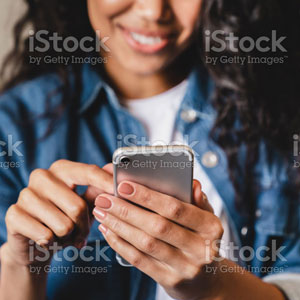
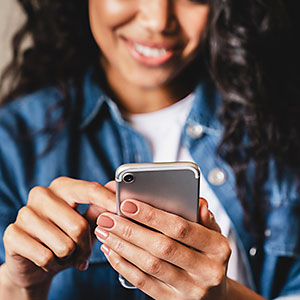
add final images and alter css so images are responsive and centered

diff --git a/dist/style.css b/dist/style.css
@@ -1,2 +1,2 @@
-@keyframes no-transform{to{opacity:1;transform:none}}@keyframes anchor-underline{0%,10%{left:0;right:100%}40%,60%{left:0;right:0}90%,to{left:100%;right:0}}.has-fade{visibility:hidden}@keyframes fade-in{0%{opacity:0;visibility:hidden}1%{opacity:0;visibility:visible}to{opacity:1;visibility:visible}}.fade-in{animation:fade-in .3s ease-in-out forwards}@keyframes fade-out{0%{opacity:1;visibility:visible}99%{opacity:0;visibility:visible}to{opacity:0;visibility:hidden}}.fade-out{animation:fade-out .3s ease-in-out forwards;display:none}a,abbr,acronym,address,applet,article,aside,audio,b,big,blockquote,body,canvas,caption,center,cite,code,dd,del,details,dfn,div,dl,dt,em,embed,fieldset,figcaption,figure,footer,form,h1,h2,h3,h4,h5,h6,header,hgroup,html,i,iframe,img,ins,kbd,label,legend,li,mark,menu,nav,object,ol,output,p,pre,q,ruby,s,samp,section,small,span,strike,strong,sub,summary,sup,table,tbody,td,tfoot,th,thead,time,tr,tt,u,ul,var,video{border:0;font-size:100%;font:inherit;margin:0;padding:0;vertical-align:baseline}article,aside,details,figcaption,figure,footer,header,hgroup,menu,nav,section{display:block}body{line-height:1.1}*{box-sizing:border-box;margin:0;padding:0}:root{--corpRed:#e43b2f;--corpRed80:rgba(228,59,47,.8);--lightGrey:#d4d4d4;--midGrey:#696969;--darkGrey:#404040;--black:#171717;--white:#fff;--white80:hsla(0,0%,100%,.8);--textGrey:#707070;--link:#e43b2f;--linkHover:#696969;--linkHoverBlue:#197de1;--font-text:"Lato",Helvetica,Arial,sans-serif;--font-heading:"Roboto",Helvetica,Arial,sans-serif}html{box-sizing:border-box;font-size:100%}*,:after,:before{box-sizing:inherit}body{background-color:var(--white);font-family:var(--font-text);height:100%;line-height:1.4;margin:0;padding:0}body.noscroll{overflow:hidden}.container-lg{margin:0 auto;max-width:87.5rem;width:80%}@media (max-width:87.4375em){.container-lg{position:relative;width:90%}}.container-blogText{margin:0 auto;max-width:48rem;width:80%}.container{margin:0 auto;max-width:75rem;width:80%}@media (max-width:63em){.container{padding:0 .625rem;position:relative;width:100%}}.row{padding:0 .625rem}ol,ul{list-style:none}blockquote,q{quotes:none}blockquote:after,blockquote:before,q:after,q:before{content:"";content:none}table{border-collapse:collapse;border-spacing:0}img{max-width:100%}a,a:hover,a:visited{text-decoration:none}.flex{display:flex}.flex-jc-sb{justify-content:space-between}.flex-jc-c{justify-content:center}.flex-ai-c{align-items:center}.fullWidth__blogs--wrapper{align-items:center;display:flex;flex-direction:row;justify-content:center;margin:0 auto;max-width:75rem;width:60%}@media (max-width:63em){.fullWidth__blogs--wrapper{flex-direction:row;position:relative;width:100%}}@media (max-width:39.9375em){.fullWidth__blogs--wrapper{flex-direction:column;position:relative;width:100%}}.fullWidth__rowReverse{flex-direction:row-reverse}.fullWidth__section{align-items:center;display:flex;flex-direction:row;flex-wrap:wrap;justify-content:flex-start;overflow:hidden;position:relative;width:100%}.fullWidth__section--reverse{flex-direction:row-reverse}@media (max-width:39.9375em){.fullWidth__section{display:block;height:100%;overflow:visible;position:relative}}.fullWidth__divider{background-color:var(--corpRed);height:6.25rem;margin-bottom:5rem;width:100%}@media (max-width:39.9375em){.fullWidth__divider{margin-bottom:2.5rem}}.section__divider{margin-bottom:5rem}.readMore{align-items:center;display:flex;justify-content:flex-start;margin:.9375rem 0 0}.contact__section{margin-bottom:5rem}.contact__section,.contact__section--content{align-items:center;display:flex;flex-direction:row;justify-content:center}.contact__section--content{width:100%}@media (max-width:39.9375em){.contact__section--content{flex-direction:column}}.contact__section--img{display:flex;justify-content:flex-end;padding-right:1.25rem;width:50%}@media (max-width:39.9375em){.contact__section--img{justify-content:center;margin-bottom:1.25rem;padding:0;width:100%}}.contact__section--text{align-items:flex-start;display:flex;flex-direction:column;justify-content:center;margin-left:1.25rem;width:50%}@media (max-width:39.9375em){.contact__section--text{align-items:center;margin-left:0;width:100%}}.contact__section--text p{color:var(--textGrey);font-family:var(--font-text);font-size:1.375rem;font-weight:700;margin-bottom:1.875rem;text-align:left;width:60%}@media (max-width:39.9375em){.contact__section--text p{text-align:center;width:80%}}.contact__us--img{border:.3125rem solid var(--midGrey);border-radius:50%}.button{display:inline-block}.btn,.button{cursor:pointer;text-align:center}.btn{border:0;border-radius:0;font-family:var(--font-heading);letter-spacing:.0625rem;text-transform:uppercase}.btn--lc{font-weight:300;text-transform:lowercase}.btn a{border-radius:0;cursor:pointer;padding:.5rem 1.25rem;text-transform:uppercase}.btn a:hover{text-decoration:none;transition:color .2s ease-in-out}.btn__navContact{margin-left:2.1875rem}@media (max-width:63em){.btn__navContact{margin-left:0}}.btn__hero{margin-top:2rem}.btn__headerNav{color:var(--darkGrey);font-family:var(--font-heading);font-size:1.0625rem;font-weight:500;letter-spacing:.0625rem;text-decoration:none;text-transform:uppercase}.btn__contact a,.btn__navContact a{background-color:var(--white);border:.0625rem solid var(--darkGrey);color:var(--darkGrey)}@media (max-width:63em){.btn__contact a,.btn__navContact a{margin-left:0}}.btn__contact a:hover,.btn__navContact a:hover{background-color:var(--corpRed);border:.0625rem solid var(--darkGrey);color:var(--white);text-decoration:none;transition:color .35s ease-in-out}.btn__recruiting a{background-color:var(--corpRed);border:.0625rem solid var(--white);color:var(--white)}.btn__recruiting a:hover{color:var(--corpRed)}.btn__about a,.btn__recruiting a:hover{background-color:var(--white);border:.0625rem solid var(--darkGrey)}.btn__about a{color:var(--darkGrey)}.btn__about a:hover{background-color:var(--darkGrey);border:.0625rem solid var(--darkGrey);color:var(--white);text-decoration:none;transition:color .35s ease-in-out}.btn__testimonial a{background-color:var(--white);border:.0625rem solid var(--darkGrey);color:var(--corpRed);padding:.625rem 1.25rem}.btn__testimonial a:hover{background-color:var(--corpRed);color:var(--white);transition:color .2s ease-in-out}h1,h2,h3,h4{font-family:var(--font-heading);margin-top:0}p{color:var(--textGrey);font-family:var(--font-text);font-size:1.0625rem;line-height:1.5;margin-bottom:1.25rem;padding-right:1.25rem}a,a:active,a:visited{text-decoration:none}a{color:var(--link);cursor:pointer}a:hover{color:var(--linkHover);text-decoration:underline;transition:all .3s ease-in-out}.hightlight-text{color:var(--corpRed)}.header{background-color:var(--white80);box-shadow:0 0 .625rem var(--black);position:absolute;width:100%;z-index:999}@media (max-width:63em){.header{background-color:var(--white)}}.header.open .header__menu>span:first-child{transform:rotate(45deg)}.header.open .header__menu>span:nth-child(2){opacity:0}.header.open .header__menu>span:last-child{transform:rotate(-45deg)}.header__logo{margin-bottom:1.25rem}.header .overlay{background-color:var(--white);bottom:0;left:0;opacity:0;position:fixed;right:0;top:3.75rem;z-index:400}.nav{flex-direction:row;justify-content:space-between;padding-top:.625rem;position:relative;z-index:400}.nav,.nav__list{align-items:center;display:flex}.nav__toggle{cursor:pointer;margin-right:.625rem;position:relative;width:2.25rem}.nav__toggle>span{background-color:var(--corpRed);display:block;height:.125rem;transform-origin:.1875rem .0625rem;transition:all .3s ease-in-out;width:1.625rem}.nav__toggle>span:not(:last-child){margin-bottom:.3125rem}.nav__item a{color:var(--darkGrey);cursor:pointer;font-weight:400;letter-spacing:.03125rem;margin-left:1rem;position:relative;text-transform:uppercase;transition:color .2s ease-out}@media (max-width:63em){.nav__item a{margin-left:0}}.nav__item a:after{border-radius:1rem;border-top:.0625rem solid var(--midGrey);bottom:-.5rem;content:"";left:0;position:absolute;right:100%;transition:right cubic-beizer(0,.5,0,1) .4s,border-color .4s ease-out}.nav__item a:hover{color:var(--midGrey);text-decoration:none}.nav__ a:hover:after{animation:anchor-underline 2s cubic-bezier(0,.5,0,1) infinite;border-color:var(--midGrey)}.nav__item--lc{font-weight:400;text-transform:none}.nav__item--btn{margin-left:2.1875rem}@media (max-width:63em){.nav__item--btn{margin-left:0}}.first-item a{margin-left:0}.nav-open{align-items:center;display:flex;flex-direction:column;justify-content:center;padding:0;position:fixed;text-align:center;top:6.25rem;width:90%;z-index:400}.nav__item,.nav__item--btn{padding-bottom:.625rem;padding-top:.625rem}.header__logo{padding:.625rem 0 0 .625rem}@media (max-width:63em){.hide-for-mobile{display:none}}@media (min-width:64em){.hide-for-desktop{display:none}}.frontPage__hero{background-image:url(../img/index-handsIn_1920x1080.jpg);background-position:top;background-repeat:no-repeat;background-size:cover;clear:both;height:100vh;left:49%;margin:0 0 5rem;overflow:hidden;position:relative;transform:translateX(-49%)}@media (max-width:63em){.frontPage__hero{background-color:#000;background-position:75% top}}.frontPage__hero--headline{align-items:flex-start;display:flex;flex-direction:column;left:20%;position:absolute;top:25%;width:100%;z-index:900}@media (max-width:63em){.frontPage__hero--headline{align-items:flex-start;left:10%;right:5%;width:80%}}@media (max-width:39.9375em){.frontPage__hero--headline{align-items:center;left:5%;text-align:center;top:25%;width:90%}}.frontPage__hero--headline h1,.frontPage__hero--headline h2{color:var(--white);font-weight:700;text-shadow:0 0 .4375rem var(--black)}.frontPage__hero--headline h1{font-size:2.5rem;margin-bottom:1.875rem;width:40%}@media (max-width:63em){.frontPage__hero--headline h1{font-size:2rem;width:100%}}.frontPage__hero--headline h2{font-size:1.75rem;line-height:1.3;margin-bottom:1.5625rem;width:30%}@media (max-width:63em){.frontPage__hero--headline h2{width:80%}}@media (max-width:39.9375em){.frontPage__hero--headline h2{font-size:1.5rem;line-height:1.3;width:100%}}.pageBanner{align-items:flex-end;background-position:top;background-repeat:no-repeat;background-size:cover;clear:both;display:flex;height:18.75rem;justify-content:flex-start;left:49%;margin:0 0 5rem;overflow:hidden;position:relative;transform:translateX(-49%)}.pageBanner--about{background-image:url(../img/hero_about_1920x500.jpg)}.pageBanner--testimonial{background-image:url(../img/hero_testimonial_1920x500.jpg)}.pageBanner--recruiting{background-image:url(../img/hero_recruiting_1920x500.jpg)}.pageBanner h1{color:var(--white);font-family:var(--font-heading);font-size:3.25rem;font-weight:900;margin-bottom:.625rem;padding-left:1.25rem;text-shadow:0 0 .3125rem var(--black);text-transform:uppercase}@media (max-width:39.9375em){.pageBanner h1{font-size:2.75rem}}.header__hero{margin-bottom:3.75rem;max-height:25rem;overflow:hidden;position:relative}@media (max-width:39.9375em){.header__hero{margin-bottom:2.5rem}}@media (max-width:63em){.header__hero--image{margin-top:5.625rem}}.header__hero--image img{height:auto;vertical-align:top;width:100%}.header__hero--content{bottom:1.25rem;left:6.25rem;position:absolute}@media (max-width:63em){.header__hero--content{bottom:.625rem;left:1.875rem}}@media (max-width:39.9375em){.header__hero--content{left:1.25rem}}.header__hero--content h1{border-left:.625rem solid var(--corpRed);color:var(--white);font-family:var(--font-heading);font-size:3.25rem;font-weight:900;line-height:1.2;padding-left:1.25rem;text-shadow:0 0 .3125rem var(--black);text-transform:uppercase}@media (max-width:63em){.header__hero--content h1{border-left:.3125rem solid var(--corpRed);font-size:2.625rem;padding-left:.625rem}}@media (max-width:39.9375em){.header__hero--content h1{border-left:.1875rem solid var(--corpRed);font-size:1.75rem}}.full__width--about{background-color:var(--corpRed)}.full__width--about,.full__width--recruiting{margin-bottom:6.25rem}.full__width--connect{background-image:url(../img/lets_connect_bkgd_1920x300.jpg);background-position:50%;background-repeat:no-repeat;margin-bottom:6.25rem;overflow:hidden;width:cover}.frontpg__about,.full__width--connect{align-items:center;display:flex;height:18.75rem;justify-content:center}.frontpg__about{flex-direction:row;flex-wrap:wrap;padding:0;position:relative;width:100%}@media (max-width:63em){.frontpg__about{height:auto}}@media (max-width:39.9375em){.frontpg__about{flex-direction:column;height:auto}}.frontpg__about--img,.frontpg__about--text{width:50%}@media (max-width:39.9375em){.frontpg__about--img,.frontpg__about--text{margin-bottom:1.25rem;overflow:hidden;width:100%}}.frontpg__about--img{flex:1;height:18.75rem;overflow:hidden}@media (max-width:63em){.frontpg__about--img{height:auto}}.frontpg__about--img img{display:block;height:100%;width:100%}.frontpg__about--text{align-items:flex-start;color:var(--white);display:flex;flex-direction:column;font-weight:500;justify-content:center;padding:0 1.25rem;width:50%}@media (max-width:39.9375em){.frontpg__about--text{padding:0 .9375rem;width:100%}}.frontpg__about--text h2{font-size:2.25rem;margin-bottom:.5rem}@media (max-width:63em){.frontpg__about--text h2{font-size:1.625rem}}.frontpg__about--text p{color:var(--white);font-size:1.25rem;line-height:1;margin-bottom:1.875rem}@media (max-width:39.9375em){.frontpg__about--text p{font-size:1.125rem}}.frontpg__recruiting{align-items:center;display:flex;flex-direction:row-reverse;flex-wrap:wrap;justify-content:center;padding:0;position:relative;width:100%}@media (max-width:63em){.frontpg__recruiting{height:auto}}@media (max-width:39.9375em){.frontpg__recruiting{flex-direction:column;height:auto}}.frontpg__recruiting--img{box-shadow:0 0 .625rem var(--black);flex:1;overflow:hidden}@media (max-width:63em){.frontpg__recruiting--img{height:auto}}@media (max-width:39.9375em){.frontpg__recruiting--img{margin-bottom:1.25rem;order:1}}.frontpg__recruiting--img img{display:block;overflow:hidden;width:100%}.frontpg__recruiting--text{align-items:flex-start;display:flex;flex-direction:column;font-weight:500;justify-content:center;padding:0 1.25rem 0 3.25rem;width:44%}@media (max-width:39.9375em){.frontpg__recruiting--text{order:2;padding:0 1.25rem;width:100%}}.frontpg__recruiting--text h2{color:var(--corpRed);font-size:2.25rem;margin-bottom:.5rem}@media (max-width:63em){.frontpg__recruiting--text h2{font-size:1.625rem}}.frontpg__recruiting--text p{color:var(--textGrey);font-size:1.125rem;line-height:1.3;margin-bottom:1.875rem;width:80%}@media (max-width:39.9375em){.frontpg__recruiting--text p{font-size:1.125rem}}.frontpg__testimonials{align-items:flex-end;display:flex;justify-content:flex-start;padding:0 0 1.25rem 1.25rem}.frontpg__testimonials--section{margin-bottom:2.8125rem}.frontpg__testimonials--testimonial{align-items:center;display:flex;flex-direction:row;gap:2.5rem;justify-content:center;padding:1.25rem}@media (max-width:63em){.frontpg__testimonials--testimonialSingle{padding:0 .625rem 1.875rem}}.frontpg__testimonials--testimonialSingle p{color:var(--textGrey);font-family:var(--font-text);font-size:1.125rem;font-weight:500;line-height:1.3}@media (max-width:39.9375em){.frontpg__testimonials--testimonial{flex-wrap:wrap}}.page__connect{align-items:center;background-color:var(--corpRed80);border:.625rem solid var(--white);display:flex;flex-direction:column;height:12.5rem;justify-content:center}.page__connect h2{color:var(--white);font-size:2.25rem;font-weight:500;text-transform:uppercase}.frontPage__testimonials{display:flex;flex-direction:column;gap:1.25rem;height:auto;width:100%}.frontPage__testimonials--section{display:flex;flex-direction:row;gap:2.5rem}@media (max-width:39.9375em){.frontPage__testimonials--section{flex-direction:column}}.frontPage__testimonials--testimonial{border:.0625rem solid var(--midGrey);border-top:.5rem solid var(--corpRed);padding:1.25rem;width:100%}.frontPage__testimonials--testimonial:hover{border-top:.625rem solid var(--corpRed);box-shadow:0 0 1.25rem var(--corpRed);transition:all .3s ease-in-out}.frontPage__wrapper{max-height:18.75rem;padding:0;position:relative}.frontPage__wrapper,.frontPage__wrapper--image{margin-bottom:2.5rem;overflow:hidden;width:100%}.frontPage__wrapper--image{background-image:url(../img/index_testimonials_1920x350.jpg);background-position:top;background-repeat:no-repeat;background-size:cover;height:15.625rem}.frontPage__wrapper--text{border-left:.5625rem solid var(--corpRed);bottom:4rem;left:3.75rem;padding-left:1.25rem;position:absolute}@media (max-width:39.9375em){.frontPage__wrapper--text{left:1.25rem}}.frontPage__wrapper--text h3{color:var(--white);font-family:var(--font-heading);font-size:3rem;font-weight:700;letter-spacing:.125rem;text-shadow:.1875rem .1875rem .3125rem var(--black);text-transform:uppercase}@media (max-width:63em){.frontPage__wrapper--text h3{font-size:2.5rem;line-height:1.2}}@media (max-width:39.9375em){.frontPage__wrapper--text h3{font-size:2rem;line-height:1.2;text-shadow:0 0 .4375rem var(--black)}}.index__input{padding:.625rem}input::placeholder{color:var(--midGrey);font-family:var(--font-heading);font-size:1.625rem;font-weight:500;padding:.625rem}.testimonial{border:.0625rem solid var(--midGrey);border-top:.625rem solid var(--corpRed);padding:1.25rem}.testimonial__logo{margin-bottom:.9375rem}.testimonial:hover{border:0;border-top:.625rem solid var(--corpRed);box-shadow:0 0 1.25rem var(--corpRed);transition:all .3s ease-in-out}.testimonial__blog{border-left:.125rem solid var(--corpRed);padding-left:1.25rem}.testimonial__blog--logo,.testimonial__blog--single{margin-bottom:2.5rem}.testimonial__blog--single h2{color:var(--textGrey);font-family:var(--font-heading);font-size:2.5rem;font-weight:500}.testimonial__blog--intro{color:var(--darkGrey);font-size:1.25rem;line-height:1.4}.testimonial__blog--date{color:var(--textGrey);font-family:var(--font-text);font-size:.875rem;margin-bottom:1.25rem}.testimonial__intro{margin-bottom:5rem}.testimonial__intro--bold{margin-bottom:3.75rem}.testimonial__intro--bold p{color:var(--darkGrey);font-size:1.25rem;line-height:1.4}.testimonials__all{align-items:center;display:flex;justify-content:flex-end}@media (max-width:63em){.testimonials__all{padding-right:1.25rem}}.testimonials__all p a{color:var(--corpRed);cursor:pointer;font-family:var(--font-text);font-size:.875rem;text-transform:uppercase}.testimonials__all p a:hover{color:var(--linkHover);text-decoration:underline}.testimonials__section--column{align-items:center;display:flex;flex-direction:column;justify-content:center;margin-bottom:5rem}.testimonials__section--single{margin-bottom:2.5rem;padding:0 1.875rem}.recruiting__intro{margin-bottom:5rem}.recruiting__intro--bold p{color:var(--darkGrey);font-size:1.25rem;line-height:1.4}.recruiting__image{margin-bottom:5rem}.hiringProcess{margin-bottom:3.75rem}.hiringProcess h2{color:var(--darkGrey);font-size:2.5rem;margin-bottom:.5rem}.hiringProcess__list{margin-left:2.5rem}.hiringProcess__list ol{line-height:1.5;list-style:decimal;margin-bottom:2.5rem}.hiringProcess__list ol li{margin-bottom:.9375rem;padding-left:.625rem}.hiringProcess__list--strong{color:var(--darkGrey);font-weight:700}.about__intro{align-items:flex-start;display:flex;flex-direction:row;gap:1.25rem;justify-content:center;margin-bottom:5rem}@media (max-width:39.9375em){.about__intro{flex-direction:column}}.about__intro--img,.about__intro--text{flex:1 0 45%}.about__intro--img{padding-right:.625rem}.about__intro--bold{color:var(--darkGrey);font-size:1.25rem;line-height:1.4}.about__intro--text{padding-left:.625rem;padding-right:.625rem}.about__bio{align-items:flex-start;display:flex;flex-direction:row;justify-content:center;margin-bottom:1.25rem}@media (max-width:39.9375em){.about__bio{flex-direction:column;margin-bottom:3.75rem}}.about__bio--images,.about__bio--text{display:flex;flex:1 0 40%;flex-direction:column;justify-content:center;padding-right:1.25rem}@media (max-width:39.9375em){.about__bio--images,.about__bio--text{padding:0}.about__bio--images{order:2}}.about__bio--text h2,.about__bio--text h3{color:var(--corpRed);font-family:var(--font-heading)}.about__bio--text h2{font-size:2rem;font-weight:700}.about__bio--text h3{font-size:1.875rem;font-weight:500;margin-bottom:1.5625rem}.bioImage{margin-bottom:1.25rem;overflow:hidden;width:100%}.bio__clientImages{align-items:center;display:flex;flex-direction:row;gap:.625rem;justify-content:space-around;overflow:hidden;padding:0;width:100%}@media (max-width:39.9375em){.bio__clientImages{gap:.625rem;width:100%}}.clientImage{overflow:hidden}.footer{background-color:var(--lightGrey);flex-direction:column;height:auto;padding:1.875rem 0;position:relative}.footer,.footer__identity,.footer__menu{align-items:center;display:flex;justify-content:center}.footer__identity,.footer__menu{margin-bottom:1.875rem}.footer__nav{align-items:center;display:flex;flex-direction:row;justify-content:center;width:100%}@media (max-width:39.9375em){.footer__nav{flex-direction:column}}.footer__nav--item{margin:0 0 0 1.5rem}.footer__nav--item a{color:var(--link);cursor:pointer;font-family:var(--font-heading);font-size:1rem;font-weight:700;letter-spacing:.0625rem}.footer__nav--item a:hover{color:var(--linkHover)}@media (max-width:39.9375em){.footer__nav--item{margin:0 0 1.25rem}}.footer__info{align-items:center;display:flex;flex-direction:row;justify-content:center}@media (max-width:39.9375em){.footer__info{flex-direction:column}}.footer__info--privacy{font-size:.875rem;margin-right:1.25rem}.footer__info--copyright{font-size:.875rem;margin-left:1.25rem}@media (max-width:39.9375em){.footer__info--copyright,.footer__info--privacy,.footer__info--social{margin:0 0 1.25rem}}
+@keyframes no-transform{to{opacity:1;transform:none}}@keyframes anchor-underline{0%,10%{left:0;right:100%}40%,60%{left:0;right:0}90%,to{left:100%;right:0}}.has-fade{visibility:hidden}@keyframes fade-in{0%{opacity:0;visibility:hidden}1%{opacity:0;visibility:visible}to{opacity:1;visibility:visible}}.fade-in{animation:fade-in .3s ease-in-out forwards}@keyframes fade-out{0%{opacity:1;visibility:visible}99%{opacity:0;visibility:visible}to{opacity:0;visibility:hidden}}.fade-out{animation:fade-out .3s ease-in-out forwards;display:none}a,abbr,acronym,address,applet,article,aside,audio,b,big,blockquote,body,canvas,caption,center,cite,code,dd,del,details,dfn,div,dl,dt,em,embed,fieldset,figcaption,figure,footer,form,h1,h2,h3,h4,h5,h6,header,hgroup,html,i,iframe,img,ins,kbd,label,legend,li,mark,menu,nav,object,ol,output,p,pre,q,ruby,s,samp,section,small,span,strike,strong,sub,summary,sup,table,tbody,td,tfoot,th,thead,time,tr,tt,u,ul,var,video{border:0;font-size:100%;font:inherit;margin:0;padding:0;vertical-align:baseline}article,aside,details,figcaption,figure,footer,header,hgroup,menu,nav,section{display:block}body{line-height:1.1}*{box-sizing:border-box;margin:0;padding:0}:root{--corpRed:#e43b2f;--corpRed80:rgba(228,59,47,.8);--lightGrey:#d4d4d4;--midGrey:#696969;--darkGrey:#404040;--black:#171717;--white:#fff;--white80:hsla(0,0%,100%,.8);--textGrey:#707070;--link:#e43b2f;--linkHover:#696969;--linkHoverBlue:#197de1;--font-text:"Lato",Helvetica,Arial,sans-serif;--font-heading:"Roboto",Helvetica,Arial,sans-serif}html{box-sizing:border-box;font-size:100%}*,:after,:before{box-sizing:inherit}body{background-color:var(--white);font-family:var(--font-text);height:100%;line-height:1.4;margin:0;padding:0}body.noscroll{overflow:hidden}.container-lg{margin:0 auto;max-width:87.5rem;width:80%}@media (max-width:87.4375em){.container-lg{position:relative;width:90%}}.container-blogText{margin:0 auto;max-width:48rem;width:80%}.container{margin:0 auto;max-width:75rem;width:80%}@media (max-width:63em){.container{padding:0 .625rem;position:relative;width:100%}}.row{padding:0 .625rem}ol,ul{list-style:none}blockquote,q{quotes:none}blockquote:after,blockquote:before,q:after,q:before{content:"";content:none}table{border-collapse:collapse;border-spacing:0}img{max-width:100%}a,a:hover,a:visited{text-decoration:none}.flex{display:flex}.flex-jc-sb{justify-content:space-between}.flex-jc-c{justify-content:center}.flex-ai-c{align-items:center}.fullWidth__blogs--wrapper{align-items:center;display:flex;flex-direction:row;justify-content:center;margin:0 auto;max-width:75rem;width:60%}@media (max-width:63em){.fullWidth__blogs--wrapper{flex-direction:row;position:relative;width:100%}}@media (max-width:39.9375em){.fullWidth__blogs--wrapper{flex-direction:column;position:relative;width:100%}}.fullWidth__rowReverse{flex-direction:row-reverse}.fullWidth__section{align-items:center;display:flex;flex-direction:row;flex-wrap:wrap;justify-content:flex-start;overflow:hidden;position:relative;width:100%}.fullWidth__section--reverse{flex-direction:row-reverse}@media (max-width:39.9375em){.fullWidth__section{display:block;height:100%;overflow:visible;position:relative}}.fullWidth__divider{background-color:var(--corpRed);height:6.25rem;margin-bottom:5rem;width:100%}@media (max-width:39.9375em){.fullWidth__divider{margin-bottom:2.5rem}}.section__divider{margin-bottom:5rem}.readMore{align-items:center;display:flex;justify-content:flex-start;margin:.9375rem 0 0}.contact__section{margin-bottom:5rem}.contact__section,.contact__section--content{align-items:center;display:flex;flex-direction:row;justify-content:center}.contact__section--content{width:100%}@media (max-width:39.9375em){.contact__section--content{flex-direction:column}}.contact__section--img{display:flex;justify-content:flex-end;padding-right:1.25rem;width:50%}@media (max-width:39.9375em){.contact__section--img{justify-content:center;margin-bottom:1.25rem;padding:0;width:100%}}.contact__section--text{align-items:flex-start;display:flex;flex-direction:column;justify-content:center;margin-left:1.25rem;width:50%}@media (max-width:39.9375em){.contact__section--text{align-items:center;margin-left:0;width:100%}}.contact__section--text p{color:var(--textGrey);font-family:var(--font-text);font-size:1.375rem;font-weight:700;margin-bottom:1.875rem;text-align:left;width:60%}@media (max-width:39.9375em){.contact__section--text p{text-align:center;width:80%}}.contact__us--img{border:.3125rem solid var(--midGrey);border-radius:50%}.button{display:inline-block}.btn,.button{cursor:pointer;text-align:center}.btn{border:0;border-radius:0;font-family:var(--font-heading);letter-spacing:.0625rem;text-transform:uppercase}.btn--lc{font-weight:300;text-transform:lowercase}.btn a{border-radius:0;cursor:pointer;padding:.5rem 1.25rem;text-transform:uppercase}.btn a:hover{text-decoration:none;transition:color .2s ease-in-out}.btn__navContact{margin-left:2.1875rem}@media (max-width:63em){.btn__navContact{margin-left:0}}.btn__hero{margin-top:2rem}.btn__headerNav{color:var(--darkGrey);font-family:var(--font-heading);font-size:1.0625rem;font-weight:500;letter-spacing:.0625rem;text-decoration:none;text-transform:uppercase}.btn__contact a,.btn__navContact a{background-color:var(--white);border:.0625rem solid var(--darkGrey);color:var(--darkGrey)}@media (max-width:63em){.btn__contact a,.btn__navContact a{margin-left:0}}.btn__contact a:hover,.btn__navContact a:hover{background-color:var(--corpRed);border:.0625rem solid var(--darkGrey);color:var(--white);text-decoration:none;transition:color .35s ease-in-out}.btn__recruiting a{background-color:var(--corpRed);border:.0625rem solid var(--white);color:var(--white)}.btn__recruiting a:hover{color:var(--corpRed)}.btn__about a,.btn__recruiting a:hover{background-color:var(--white);border:.0625rem solid var(--darkGrey)}.btn__about a{color:var(--darkGrey)}.btn__about a:hover{background-color:var(--darkGrey);border:.0625rem solid var(--darkGrey);color:var(--white);text-decoration:none;transition:color .35s ease-in-out}.btn__testimonial a{background-color:var(--white);border:.0625rem solid var(--darkGrey);color:var(--corpRed);padding:.625rem 1.25rem}.btn__testimonial a:hover{background-color:var(--corpRed);color:var(--white);transition:color .2s ease-in-out}h1,h2,h3,h4{font-family:var(--font-heading);line-height:1.1;margin-top:0}p{color:var(--textGrey);font-family:var(--font-text);font-size:1.0625rem;line-height:1.5;margin-bottom:1.25rem;padding-right:1.25rem}a,a:active,a:visited{text-decoration:none}a{color:var(--link);cursor:pointer}a:hover{color:var(--linkHover);text-decoration:underline;transition:all .3s ease-in-out}.hightlight-text{color:var(--corpRed)}.header{background-color:var(--white80);box-shadow:0 0 .625rem var(--black);position:absolute;width:100%;z-index:999}@media (max-width:63em){.header{background-color:var(--white)}}.header.open .header__menu>span:first-child{transform:rotate(45deg)}.header.open .header__menu>span:nth-child(2){opacity:0}.header.open .header__menu>span:last-child{transform:rotate(-45deg)}.header__logo{margin-bottom:1.25rem}.header .overlay{background-color:var(--white);bottom:0;left:0;opacity:0;position:fixed;right:0;top:3.75rem;z-index:400}.nav{flex-direction:row;justify-content:space-between;padding-top:.625rem;position:relative;z-index:400}.nav,.nav__list{align-items:center;display:flex}.nav__toggle{cursor:pointer;margin-right:.625rem;position:relative;width:2.25rem}.nav__toggle>span{background-color:var(--corpRed);display:block;height:.125rem;transform-origin:.1875rem .0625rem;transition:all .3s ease-in-out;width:1.625rem}.nav__toggle>span:not(:last-child){margin-bottom:.3125rem}.nav__item a{color:var(--darkGrey);cursor:pointer;font-weight:400;letter-spacing:.03125rem;margin-left:1rem;position:relative;text-transform:uppercase;transition:color .2s ease-out}@media (max-width:63em){.nav__item a{margin-left:0}}.nav__item a:after{border-radius:1rem;border-top:.0625rem solid var(--midGrey);bottom:-.5rem;content:"";left:0;position:absolute;right:100%;transition:right cubic-beizer(0,.5,0,1) .4s,border-color .4s ease-out}.nav__item a:hover{color:var(--midGrey);text-decoration:none}.nav__ a:hover:after{animation:anchor-underline 2s cubic-bezier(0,.5,0,1) infinite;border-color:var(--midGrey)}.nav__item--lc{font-weight:400;text-transform:none}.nav__item--btn{margin-left:2.1875rem}@media (max-width:63em){.nav__item--btn{margin-left:0}}.first-item a{margin-left:0}.nav-open{align-items:center;display:flex;flex-direction:column;justify-content:center;padding:0;position:fixed;text-align:center;top:6.25rem;width:90%;z-index:400}.nav__item,.nav__item--btn{padding-bottom:.625rem;padding-top:.625rem}.header__logo{padding:.625rem 0 0 .625rem}@media (max-width:63em){.hide-for-mobile{display:none}}@media (min-width:64em){.hide-for-desktop{display:none}}.frontPage__hero{background-image:url(../img/index-handsIn_1920x1080.jpg);background-position:top;background-repeat:no-repeat;background-size:cover;clear:both;height:100vh;left:49%;margin:0 0 5rem;overflow:hidden;position:relative;transform:translateX(-49%)}@media (max-width:63em){.frontPage__hero{background-color:#000;background-position:75% top}}.frontPage__hero--headline{align-items:flex-start;display:flex;flex-direction:column;left:20%;position:absolute;top:25%;width:100%;z-index:900}@media (max-width:63em){.frontPage__hero--headline{align-items:flex-start;left:10%;right:5%;width:80%}}@media (max-width:39.9375em){.frontPage__hero--headline{align-items:center;left:5%;text-align:center;top:25%;width:90%}}.frontPage__hero--headline h1,.frontPage__hero--headline h2{color:var(--white);font-weight:700;text-shadow:0 0 .4375rem var(--black)}.frontPage__hero--headline h1{font-size:2.5rem;margin-bottom:1.875rem;width:40%}@media (max-width:63em){.frontPage__hero--headline h1{font-size:2rem;width:100%}}.frontPage__hero--headline h2{font-size:1.75rem;line-height:1.3;margin-bottom:1.5625rem;width:30%}@media (max-width:63em){.frontPage__hero--headline h2{width:80%}}@media (max-width:39.9375em){.frontPage__hero--headline h2{font-size:1.5rem;line-height:1.3;width:100%}}.pageBanner{align-items:flex-end;background-position:top;background-repeat:no-repeat;background-size:cover;clear:both;display:flex;height:18.75rem;justify-content:flex-start;left:49%;margin:0 0 5rem;overflow:hidden;position:relative;transform:translateX(-49%)}.pageBanner--about{background-image:url(../img/hero_about_1920x500.jpg)}.pageBanner--testimonial{background-image:url(../img/hero_testimonial_1920x500.jpg)}.pageBanner--recruiting{background-image:url(../img/hero_recruiting_1920x500.jpg)}.pageBanner h1{color:var(--white);font-family:var(--font-heading);font-size:3.25rem;font-weight:900;margin-bottom:.625rem;padding-left:1.25rem;text-shadow:0 0 .3125rem var(--black);text-transform:uppercase}@media (max-width:39.9375em){.pageBanner h1{font-size:2.75rem}}.header__hero{margin-bottom:3.75rem;max-height:25rem;overflow:hidden;position:relative}@media (max-width:39.9375em){.header__hero{margin-bottom:2.5rem}}@media (max-width:63em){.header__hero--image{margin-top:5.625rem}}.header__hero--image img{height:auto;vertical-align:top;width:100%}.header__hero--content{bottom:1.25rem;left:6.25rem;position:absolute}@media (max-width:63em){.header__hero--content{bottom:.625rem;left:1.875rem}}@media (max-width:39.9375em){.header__hero--content{left:1.25rem}}.header__hero--content h1{border-left:.625rem solid var(--corpRed);color:var(--white);font-family:var(--font-heading);font-size:3.25rem;font-weight:900;line-height:1.2;padding-left:1.25rem;text-shadow:0 0 .3125rem var(--black);text-transform:uppercase}@media (max-width:63em){.header__hero--content h1{border-left:.3125rem solid var(--corpRed);font-size:2.625rem;padding-left:.625rem}}@media (max-width:39.9375em){.header__hero--content h1{border-left:.1875rem solid var(--corpRed);font-size:1.75rem}}.full__width--about{background-color:var(--corpRed)}.full__width--about,.full__width--recruiting{margin-bottom:6.25rem}.full__width--connect{background-image:url(../img/lets_connect_bkgd_1920x400.jpg);background-position:50%;background-repeat:no-repeat;margin-bottom:6.25rem;overflow:hidden;width:cover}.frontpg__about,.full__width--connect{align-items:center;display:flex;height:18.75rem;justify-content:center}.frontpg__about{flex-direction:row;flex-wrap:wrap;padding:0;position:relative;width:100%}@media (max-width:63em){.frontpg__about{height:auto}}@media (max-width:39.9375em){.frontpg__about{flex-direction:column;height:auto}}.frontpg__about--img,.frontpg__about--text{width:50%}@media (max-width:39.9375em){.frontpg__about--img,.frontpg__about--text{margin-bottom:1.25rem;overflow:hidden;width:100%}}.frontpg__about--img{flex:1;height:18.75rem;overflow:hidden}@media (max-width:63em){.frontpg__about--img{height:auto}}.frontpg__about--img img{display:block;height:100%;width:100%}.frontpg__about--text{align-items:flex-start;color:var(--white);display:flex;flex-direction:column;font-weight:500;justify-content:center;padding:0 1.25rem;width:50%}@media (max-width:39.9375em){.frontpg__about--text{padding:0 .9375rem;width:100%}}.frontpg__about--text h2{font-size:2.25rem;margin-bottom:.5rem}@media (max-width:63em){.frontpg__about--text h2{font-size:1.625rem}}.frontpg__about--text p{color:var(--white);font-size:1.25rem;line-height:1;margin-bottom:1.875rem}@media (max-width:39.9375em){.frontpg__about--text p{font-size:1.125rem}}.frontpg__recruiting{align-items:center;display:flex;flex-direction:row-reverse;flex-wrap:wrap;justify-content:center;padding:0;position:relative;width:100%}@media (max-width:63em){.frontpg__recruiting{height:auto}}@media (max-width:39.9375em){.frontpg__recruiting{flex-direction:column;height:auto}}.frontpg__recruiting--img{box-shadow:0 0 .625rem var(--black);flex:1;overflow:hidden}@media (max-width:63em){.frontpg__recruiting--img{height:auto}}@media (max-width:39.9375em){.frontpg__recruiting--img{margin-bottom:1.25rem;order:1}}.frontpg__recruiting--img img{display:block;overflow:hidden;width:100%}.frontpg__recruiting--text{align-items:flex-start;display:flex;flex-direction:column;font-weight:500;justify-content:center;padding:0 1.25rem 0 3.25rem;width:44%}@media (max-width:39.9375em){.frontpg__recruiting--text{order:2;padding:0 1.25rem;width:100%}}.frontpg__recruiting--text h2{color:var(--corpRed);font-size:2.25rem;margin-bottom:.5rem}@media (max-width:63em){.frontpg__recruiting--text h2{font-size:1.625rem}}.frontpg__recruiting--text p{color:var(--textGrey);font-size:1.125rem;line-height:1.3;margin-bottom:1.875rem;width:80%}@media (max-width:39.9375em){.frontpg__recruiting--text p{font-size:1.125rem}}.frontpg__testimonials{align-items:flex-end;display:flex;justify-content:flex-start;padding:0 0 1.25rem 1.25rem}.frontpg__testimonials--section{margin-bottom:2.8125rem}.frontpg__testimonials--testimonial{align-items:center;display:flex;flex-direction:row;gap:2.5rem;justify-content:center;padding:1.25rem}@media (max-width:63em){.frontpg__testimonials--testimonialSingle{padding:0 .625rem 1.875rem}}.frontpg__testimonials--testimonialSingle p{color:var(--textGrey);font-family:var(--font-text);font-size:1.125rem;font-weight:500;line-height:1.3}@media (max-width:39.9375em){.frontpg__testimonials--testimonial{flex-wrap:wrap}}.page__connect{align-items:center;background-color:var(--corpRed80);border:.625rem solid var(--white);display:flex;flex-direction:column;height:12.5rem;justify-content:center}.page__connect h2{color:var(--white);font-size:2.25rem;font-weight:500;text-transform:uppercase}.frontPage__testimonials{display:flex;flex-direction:column;gap:1.25rem;height:auto;width:100%}.frontPage__testimonials--section{display:flex;flex-direction:row;gap:2.5rem}@media (max-width:39.9375em){.frontPage__testimonials--section{flex-direction:column}}.frontPage__testimonials--testimonial{border:.0625rem solid var(--midGrey);border-top:.5rem solid var(--corpRed);padding:1.25rem;width:100%}.frontPage__testimonials--testimonial:hover{border-top:.625rem solid var(--corpRed);box-shadow:0 0 1.25rem var(--corpRed);transition:all .3s ease-in-out}.frontPage__wrapper{max-height:18.75rem;padding:0;position:relative}.frontPage__wrapper,.frontPage__wrapper--image{margin-bottom:2.5rem;overflow:hidden;width:100%}.frontPage__wrapper--image{background-image:url(../img/index_testimonials_1920x350.jpg);background-position:top;background-repeat:no-repeat;background-size:cover;height:15.625rem}.frontPage__wrapper--text{border-left:.5625rem solid var(--corpRed);bottom:4rem;left:3.75rem;padding-left:1.25rem;position:absolute}@media (max-width:39.9375em){.frontPage__wrapper--text{left:1.25rem}}.frontPage__wrapper--text h3{color:var(--white);font-family:var(--font-heading);font-size:3rem;font-weight:700;letter-spacing:.125rem;text-shadow:.1875rem .1875rem .3125rem var(--black);text-transform:uppercase}@media (max-width:63em){.frontPage__wrapper--text h3{font-size:2.5rem;line-height:1.2}}@media (max-width:39.9375em){.frontPage__wrapper--text h3{font-size:2rem;line-height:1.2;text-shadow:0 0 .4375rem var(--black)}}.index__input{padding:.625rem}input::placeholder{color:var(--midGrey);font-family:var(--font-heading);font-size:1.625rem;font-weight:500;padding:.625rem}.testimonial{border:.0625rem solid var(--midGrey);border-top:.625rem solid var(--corpRed);padding:1.25rem}.testimonial__logo{margin-bottom:.9375rem}.testimonial:hover{border:0;border-top:.625rem solid var(--corpRed);box-shadow:0 0 1.25rem var(--corpRed);transition:all .3s ease-in-out}.testimonial__blog{border-left:.125rem solid var(--corpRed);padding-left:1.25rem}.testimonial__blog--logo,.testimonial__blog--single{margin-bottom:2.5rem}.testimonial__blog--single h2{color:var(--textGrey);font-family:var(--font-heading);font-size:2.5rem;font-weight:500}.testimonial__blog--intro{color:var(--darkGrey);font-size:1.25rem;line-height:1.4}.testimonial__blog--date{color:var(--textGrey);font-family:var(--font-text);font-size:.875rem;margin-bottom:1.25rem}.testimonial__intro{margin-bottom:5rem}.testimonial__intro--bold{margin-bottom:3.75rem}.testimonial__intro--bold p{color:var(--darkGrey);font-size:1.25rem;line-height:1.4}.testimonials__all{align-items:center;display:flex;justify-content:flex-end}@media (max-width:63em){.testimonials__all{padding-right:1.25rem}}.testimonials__all p a{color:var(--corpRed);cursor:pointer;font-family:var(--font-text);font-size:.875rem;text-transform:uppercase}.testimonials__all p a:hover{color:var(--linkHover);text-decoration:underline}.testimonials__section--column{align-items:center;display:flex;flex-direction:column;justify-content:center;margin-bottom:5rem}.testimonials__section--single{margin-bottom:2.5rem;padding:0 1.875rem}.recruiting__intro{margin-bottom:5rem}.recruiting__intro--bold p{color:var(--darkGrey);font-size:1.25rem;line-height:1.4}.recruiting__image{margin-bottom:3.75rem;max-height:17.1875rem;overflow:hidden;vertical-align:top}@media (max-width:39.9375em){.recruiting__image{margin-bottom:1.875rem}}.hiringProcess{margin-bottom:3.75rem}.hiringProcess h2{color:var(--darkGrey);font-size:2.5rem;margin-bottom:.5rem}.hiringProcess__list{margin-left:2.5rem}.hiringProcess__list ol{line-height:1.5;list-style:decimal;margin-bottom:2.5rem}.hiringProcess__list ol li{margin-bottom:.9375rem;padding-left:.625rem}.hiringProcess__list--strong{color:var(--darkGrey);font-weight:700}.about__intro{align-items:flex-start;display:flex;flex-direction:row;gap:1.25rem;justify-content:center;margin-bottom:5rem}@media (max-width:39.9375em){.about__intro{flex-direction:column}}.about__intro--img,.about__intro--text{flex:1 0 45%}.about__intro--img{padding-right:.625rem}.about__intro--bold{color:var(--darkGrey);font-size:1.25rem;line-height:1.4}.about__intro--text{padding-left:.625rem;padding-right:.625rem}.about__bio{align-items:flex-start;display:flex;flex-direction:row;justify-content:center;margin-bottom:1.25rem}@media (max-width:39.9375em){.about__bio{flex-direction:column;margin-bottom:3.75rem}}.about__bio--images,.about__bio--text{display:flex;flex:1 0 40%;flex-direction:column;justify-content:center;padding-right:1.25rem}@media (max-width:39.9375em){.about__bio--images,.about__bio--text{padding:0}.about__bio--images{order:2}}.about__bio--text h2,.about__bio--text h3{color:var(--corpRed);font-family:var(--font-heading)}.about__bio--text h2{font-size:2rem;font-weight:700}.about__bio--text h3{font-size:1.875rem;font-weight:500;margin-bottom:1.5625rem}.bioImage{margin-bottom:1.25rem;overflow:hidden;width:100%}.bio__clientImages{align-items:center;display:flex;flex-direction:row;gap:.625rem;justify-content:space-around;overflow:hidden;padding:0;width:100%}@media (max-width:39.9375em){.bio__clientImages{gap:.625rem;width:100%}}.clientImage{overflow:hidden}.footer{background-color:var(--lightGrey);flex-direction:column;height:auto;padding:1.875rem 0;position:relative}.footer,.footer__identity,.footer__menu{align-items:center;display:flex;justify-content:center}.footer__identity,.footer__menu{margin-bottom:1.875rem}.footer__nav{align-items:center;display:flex;flex-direction:row;justify-content:center;width:100%}@media (max-width:39.9375em){.footer__nav{flex-direction:column}}.footer__nav--item{margin:0 0 0 1.5rem}.footer__nav--item a{color:var(--link);cursor:pointer;font-family:var(--font-heading);font-size:1rem;font-weight:700;letter-spacing:.0625rem}.footer__nav--item a:hover{color:var(--linkHover)}@media (max-width:39.9375em){.footer__nav--item{margin:0 0 1.25rem}}.footer__info{align-items:center;display:flex;flex-direction:row;justify-content:center}@media (max-width:39.9375em){.footer__info{flex-direction:column}}.footer__info--privacy{font-size:.875rem;margin-right:1.25rem}.footer__info--copyright{font-size:.875rem;margin-left:1.25rem}@media (max-width:39.9375em){.footer__info--copyright,.footer__info--privacy,.footer__info--social{margin:0 0 1.25rem}}
 /*# sourceMappingURL=style.css.map */

diff --git a/recruiting.html b/recruiting.html
@@ -77,7 +77,7 @@
         </div> <!-- container-blogText -->
         
         <div class="container recruiting__image">
-          <img src="img/recruitingMeeting_1200x275.jpg" width="1200" alt="Recruiting interview">
+          <img src="img/recruitingMeeting_1200x425.jpg" width="1200" alt="Recruiting interview">
         </div>
 
         <div class="container-blogText hiringProcess">

diff --git a/app/scss/components/frontpg.scss b/app/scss/components/frontpg.scss
@@ -14,7 +14,7 @@
     }
 
     &--connect {
-      background-image: url('../img/lets_connect_bkgd_1920x300.jpg');
+      background-image: url('../img/lets_connect_bkgd_1920x400.jpg');
       background-repeat: no-repeat;
       background-position: center center;
       width: cover;

diff --git a/app/scss/components/recruiting.scss b/app/scss/components/recruiting.scss
@@ -13,7 +13,14 @@
   }
 
   &__image {
-    margin-bottom: rem(80);
+    margin-bottom: rem(60);
+    max-height: rem(275);
+    vertical-align: top;
+    overflow: hidden;
+
+    @include breakpoint-down(small) {
+      margin-bottom: rem(30);
+    }
   }
 
 }

diff --git a/app/scss/globals/typeography.scss b/app/scss/globals/typeography.scss
@@ -6,6 +6,7 @@ h3,
 h4 {
   margin-top: 0;
   font-family: var(--font-heading);
+  line-height: 1.1;
 }
 
 p {
